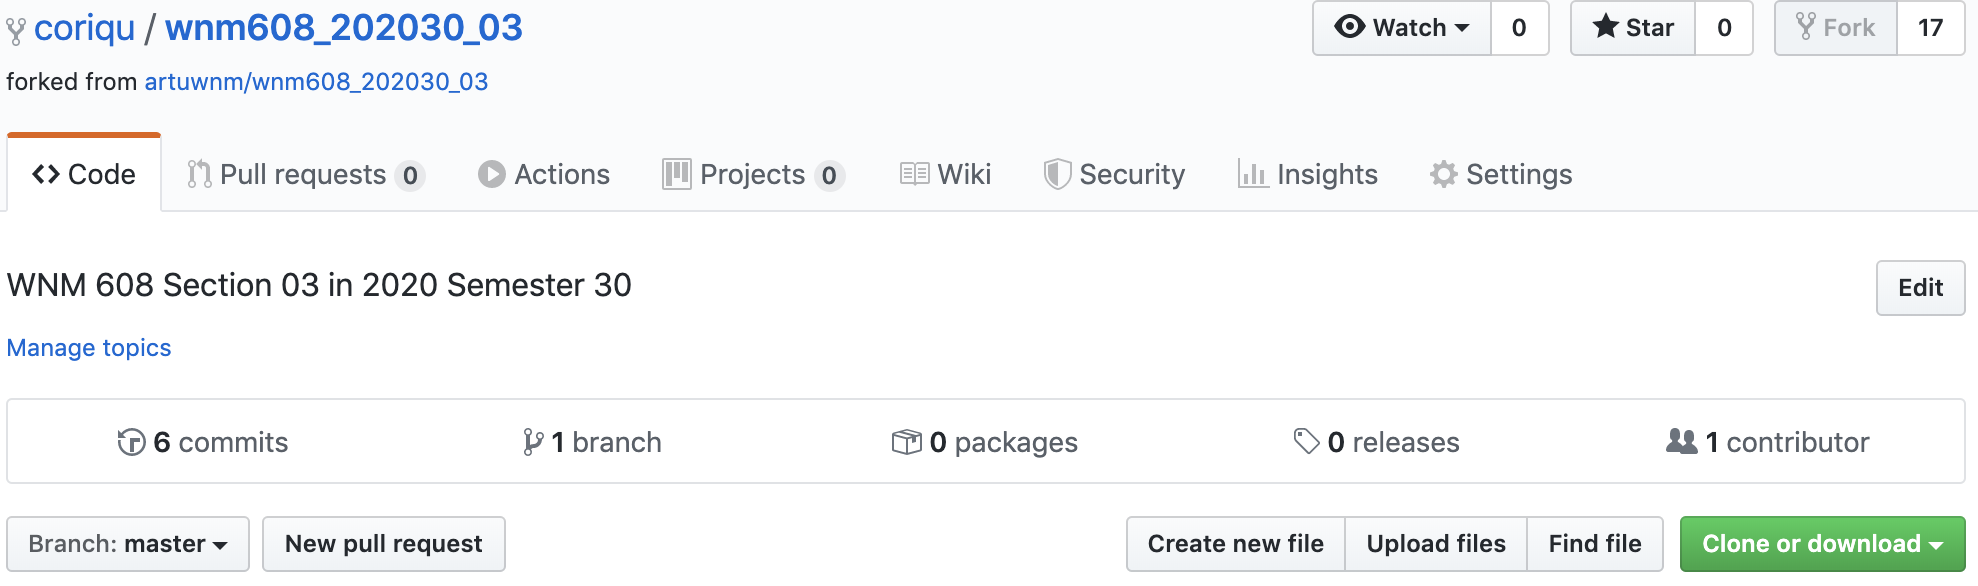
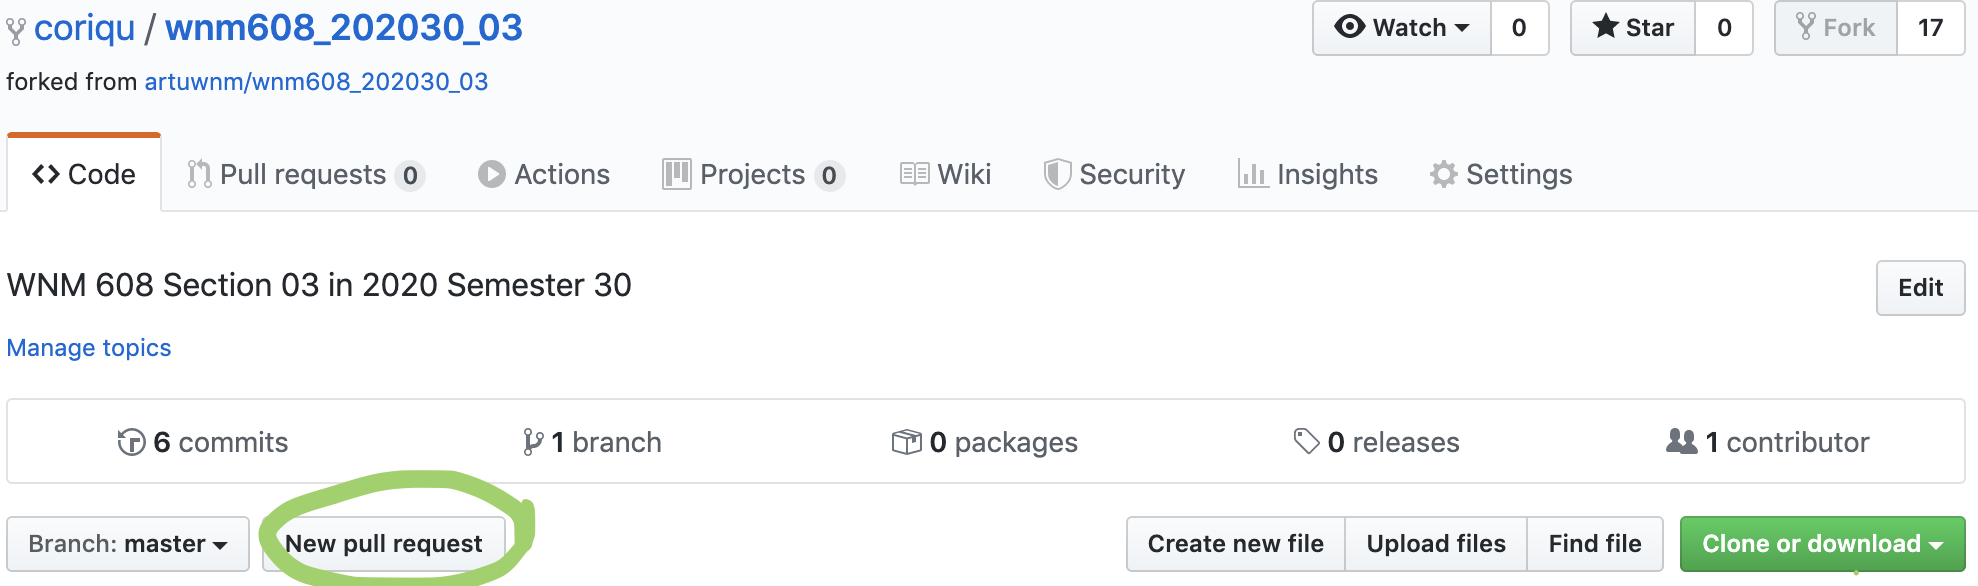
update

Changed region(s): [[0.1234, 0.7986, 0.2776, 1.0]]

diff --git a/608-01.md b/608-01.md
@@ -56,7 +56,7 @@
    - Using ` git commit -m "[your_description]"`  to create a new commit containing the current contents and the given log message describing the changes. 
    - Using `git push`  to upload your changes to your Github.
 
-8. New pull request to submit your homework to the repository https://github.com/artuwnm/wnm608_202030_03.
+8. Click on "New pull request" in your repo to submit your homework to the repo https://github.com/artuwnm/wnm608_202030_03.
 
    ![01-08](https://raw.githubusercontent.com/coriqu/wnm608_notes/master/pic/01-08.png)
 
